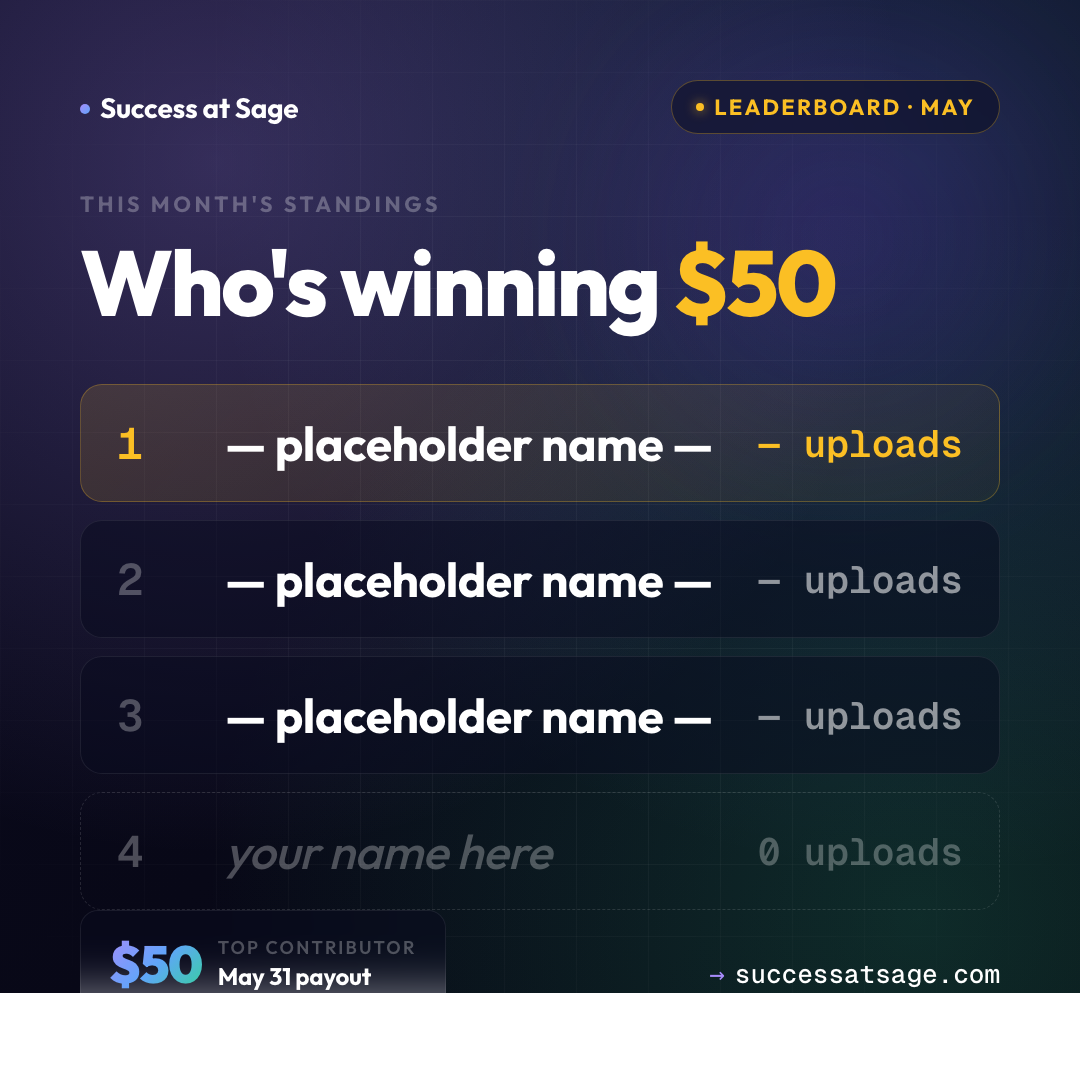
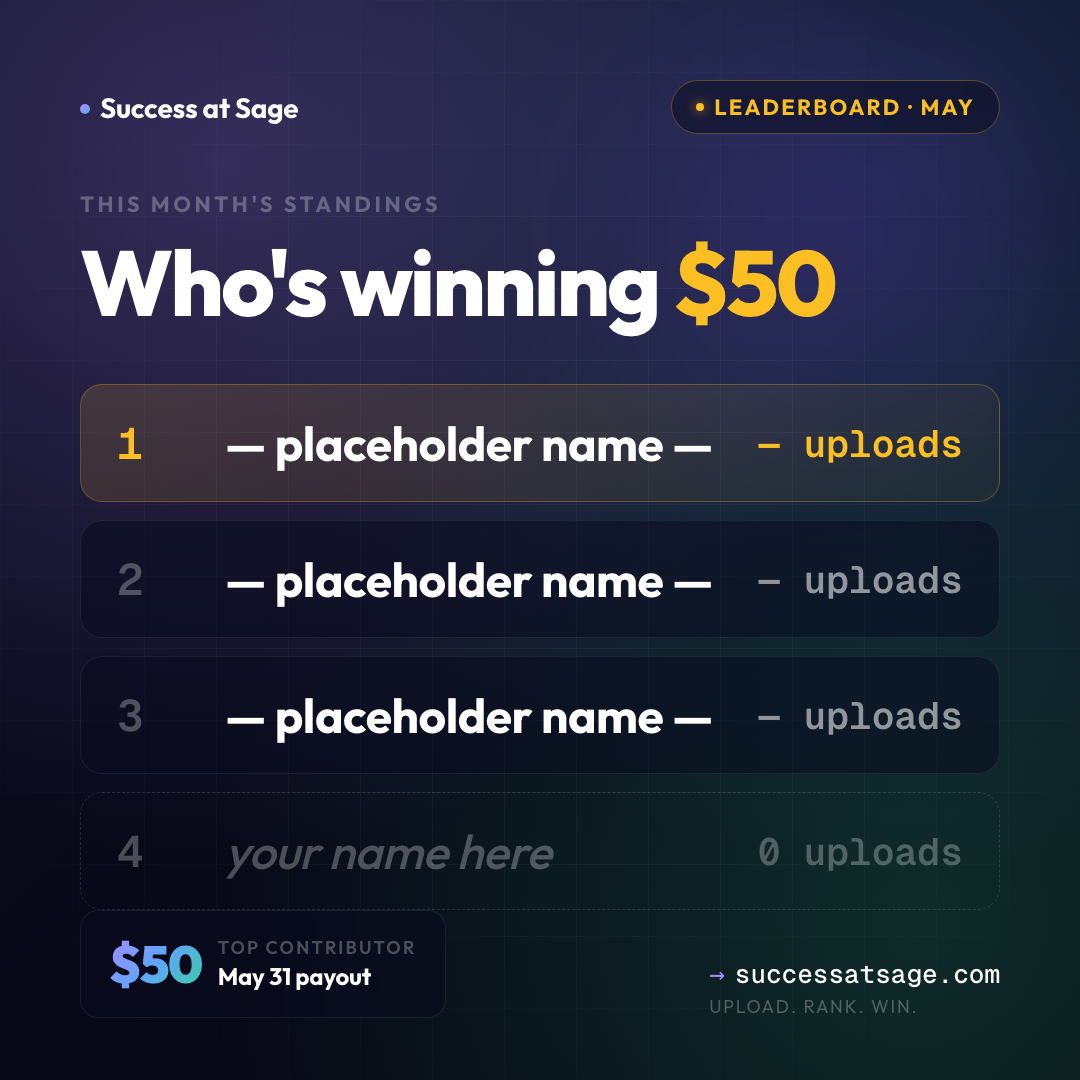
fix(marketing): crop 87px white bar off bottom of every rendered image
Headless Chrome's --screenshot at --window-size=W,H captured a W×H PNG
but only rendered ~(H-87) of viewport — leaving an 87px band of white
under the body on every Instagram post and poster preview. Content like
"Contest ends · May 31, 2026" and the URL footer fell into that band.

Replace the ad-hoc Chrome CLI incantations with marketing/render.mjs:

- Renders 87px taller than the target size, then crops the overhead off
  using pngjs. Output is exactly the intended dimensions (1080×1080 for
  IG, 816×1056 and 1056×816 for poster previews).
- Uses --headless=new (the modern path) and --virtual-time-budget=2500
  so Google Fonts have time to load.
- One script handles all 4 IG posts, both poster previews, and both
  poster PDFs. Run `node marketing/render.mjs` to regenerate everything.

Also adds pngjs as a devDependency and updates the re-render section of
the copy README to point at the new script.

Changed region(s): [[0.0, 0.8861, 1.0, 1.0]]

diff --git a/marketing/copy/README.md b/marketing/copy/README.md
@@ -274,22 +274,18 @@ marketing/
 
 ### How to re-render after editing HTML
 
+Run the render script from the project root:
+
 ```bash
-cd marketing
-
-# PNG (Instagram post, 1080x1080)
-"/Applications/Google Chrome.app/Contents/MacOS/Google Chrome" \
-  --headless --disable-gpu --hide-scrollbars --virtual-time-budget=2000 \
-  --screenshot=instagram/ig-02-leaderboard.png \
-  --window-size=1080,1080 \
-  "file://$(pwd)/src/ig-02-leaderboard.html"
-
-# PDF (poster)
-"/Applications/Google Chrome.app/Contents/MacOS/Google Chrome" \
-  --headless --disable-gpu --hide-scrollbars --virtual-time-budget=2000 \
-  --no-pdf-header-footer --print-to-pdf=posters/poster-stall.pdf \
-  "file://$(pwd)/src/poster-stall.html"
+node marketing/render.mjs          # re-render everything
+node marketing/render.mjs ig       # just the Instagram posts
+node marketing/render.mjs posters  # just the posters (previews + PDFs)
 ```
+
+The script uses headless Chrome to rasterize each HTML source into the
+correct output. It renders ~87px taller than needed and crops the bottom
+off — without that compensation, Chrome's headless viewport leaves a strip
+of white below the body. Requires `pngjs` (already in `devDependencies`).
 
 ---
 
